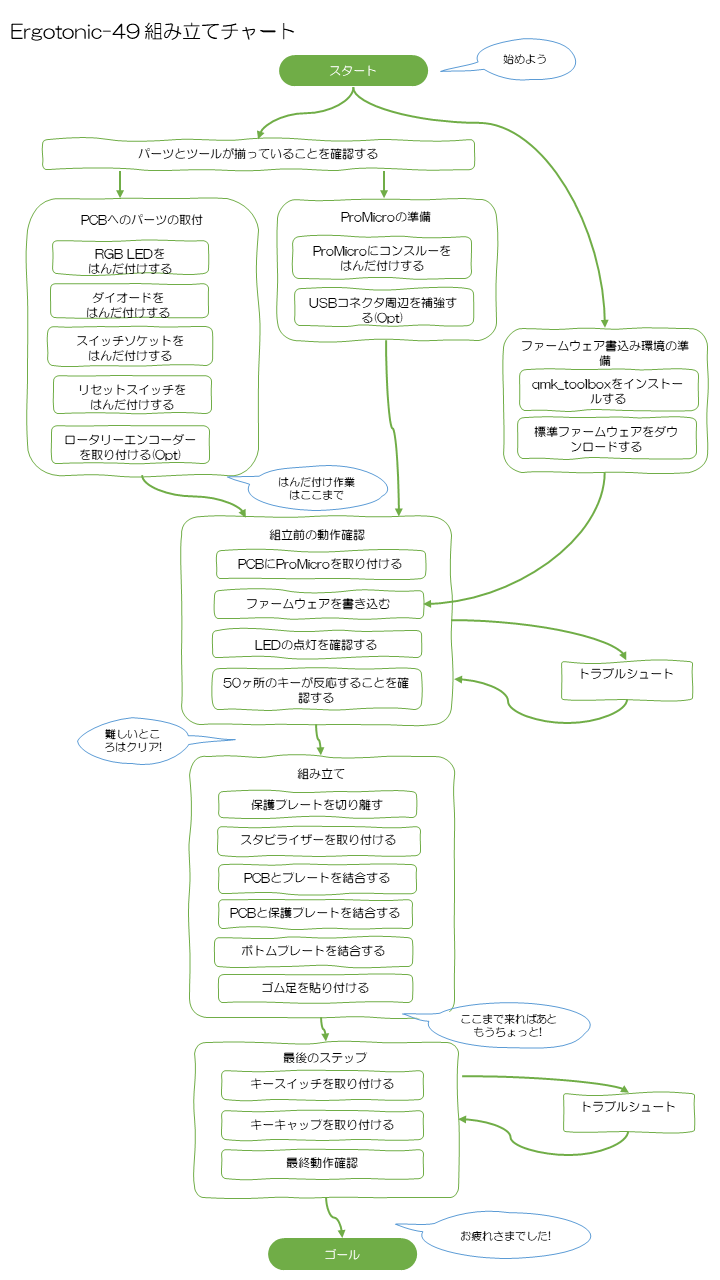
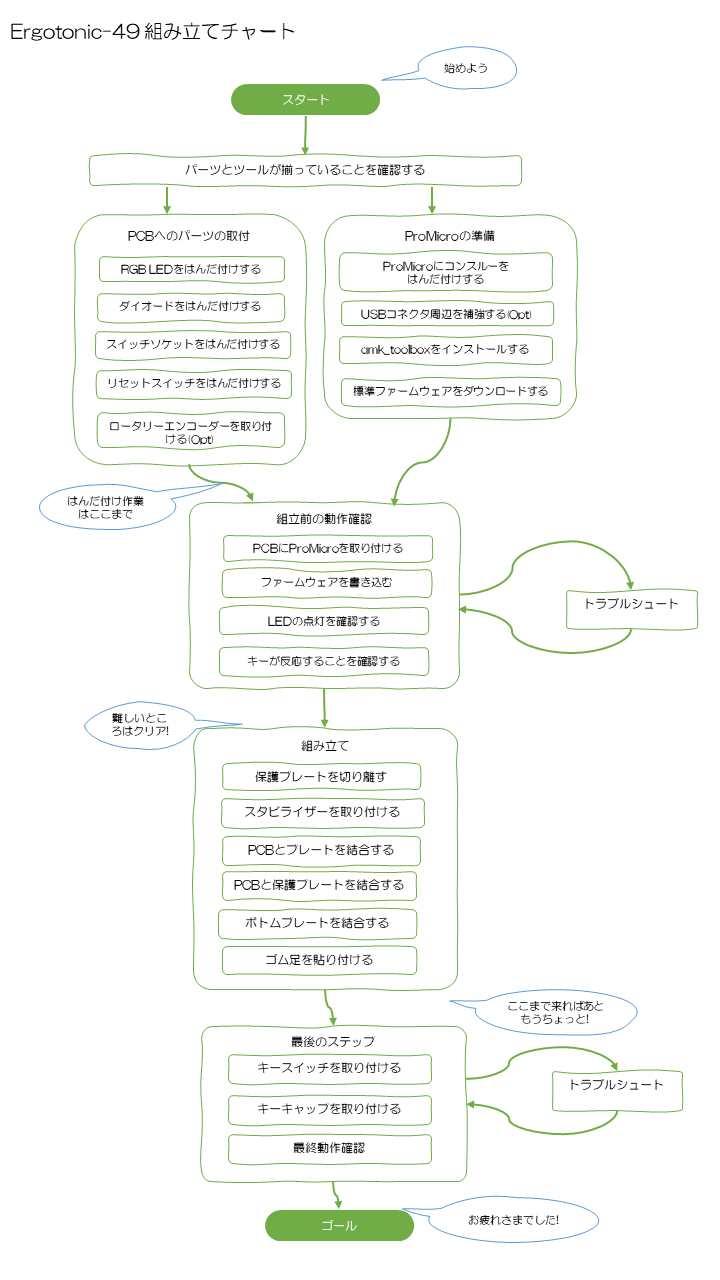
modified: buildguide

diff --git a/docs/06_final_step.md b/docs/06_final_step.md
@@ -1,8 +1,6 @@
-
 [<<Prev: 組み立て](05_assembly.md)  
-----
 
-# 最後のステップ
+# 6. 最後のステップ
 
 ## キースイッチを取り付ける
 
@@ -26,12 +24,16 @@ NOTE
 - すべてのLEDが点灯すること
 
 
-TIPS:
-  - LEDがテストモードで動作しているのを止めたい場合下記のいずれかの方法で行って下さい
-     - 1 REMAPのLED ”Lightning"設定でお好みのモードに変更する
-     - 2 下記のキーの組み合わせでOFF またはモードを変更する
 
-## 問題がなければこれで作業は完了です!
+
+ ## 問題がなければこれで作業は完了です!
+
+
+TIPS:
+  - LEDがテストモードで動作しているのを止めたい場合は、[REMAP](https://remap-keys.app/configure) の ”Lightning"設定でお好みのモードに変更してください。
+  - キー操作でもLEDをコントロールできます。 [標準キーマップのチートシート](img/keymap_cheatsheet_ergotonic_49.pdf)を参照して下さい
 
 ----
  [>>Next: トラブルシュート](07_troubleshoot.md)
+
+[Index](index.md)

diff --git a/docs/index.md b/docs/index.md
@@ -1,9 +1,12 @@
 # Ergotonic-49 組み立て説明書
 
 Ergotonic-49のビルドガイドです。
+
+キーボードの組み立てを始める前に全体工程をよく理解してから取りかることをおすすめします。
+
 ## TOC
 
-1. [事前の準備](01_preparation.md)  
+1. [準備](01_preparation.md)  
 2. [ProMicroの準備](02_promicro.md)
 3. [PCBへのパーツ取り付け](03_soldering_pcb.md)
 4. [組立前の動作確認](04_operation_check.md)
@@ -14,5 +17,5 @@ Ergotonic-49のビルドガイドです。
 
 ## 組み立て手順 (全体チャート)
 
-  [<img src="img/flow_diagram.png" alt="img" title="img/flow_diagram.png" height=600>](img/flow_diagram.png)
+  [<img src="img/flow_diagram.png" alt="img" title="img/flow_diagram.png" width=600>](img/flow_diagram.png)
 

diff --git a/docs/08_reference.md b/docs/08_reference.md
@@ -1,7 +1,6 @@
 [<<Prev: トラブルシュート](07_troubleshoot.md)  
-----
 
-# 参考情報
+# 8. 参考情報
 
 ## パーツショップ(日本)
 
@@ -21,4 +20,5 @@
 - [表面実装部品（SMD）のはんだ付け](https://www.kogadenshi.co.jp/%E5%8D%8A%E7%94%B0%E4%BB%98%E3%81%91%E3%83%86%E3%82%AF%E3%83%8B%E3%83%83%E3%82%AF/%E8%A1%A8%E9%9D%A2%E5%AE%9F%E8%A3%85%E9%83%A8%E5%93%81-smd-%E3%81%AE%E5%8D%8A%E7%94%B0%E4%BB%98%E3%81%91/) 株式会社古賀電子
 
 ----
- [>>Next: Index](index.md)
+ [Index](index.md)
+

diff --git a/docs/05_assembly.md b/docs/05_assembly.md
@@ -2,7 +2,7 @@
 [<<Prev: 組立前の動作確認](04_operation_check.md)  
 ----
 
-# 組み立て
+# 5. 組み立て
 
 ## 保護プレートの切り離し
 
@@ -45,8 +45,10 @@ NOTE:
   
   <img src="img/bottom_screw.jpg" alt="img" title="img/bottom_screw.jpg" width=500>
 
-## ゴム足を取り付けます
+## ゴム足を取り付ける
 
 - 裏側からゴム足を4箇所に取り付けます
 ----
  [>>Next: 最後のステップ](06_final_step.md)
+
+[Index](index.md)

diff --git a/docs/01_preparation.md b/docs/01_preparation.md
@@ -1,8 +1,6 @@
+[<<Prev: Index](index.md) 
 
- [<<Prev: Index](index.md) 
-----
-
-# 準備
+# 1. 準備
 
 組み立てを始める前に、パーツおよびツールが揃っていることを確認します。
 
@@ -55,4 +53,6 @@
  - エポキシ系接着剤(必要に応じて)
 
 ----
- [>>Next: ProMicroの準備](02_promicro.md)
+[>>Next: ProMicroの準備](02_promicro.md)   
+
+[Index](index.md)

diff --git a/docs/04_operation_check.md b/docs/04_operation_check.md
@@ -1,8 +1,6 @@
-
 [<<Prev: PCBへのパーツ取り付け](03_soldering_pcb.md)  
-----
 
-# 組立前の動作確認
+# 4. 組立前の動作確認
 
 ## ProMicroを取り付ける
 
@@ -47,3 +45,5 @@ Chromeブラウザで[REMAPサイト](https://remap-keys.app/configure)を開き
 
 ----
  [>>Next: 組み立て](05_assembly.md)
+
+[Index](index.md)

diff --git a/docs/03_soldering_pcb.md b/docs/03_soldering_pcb.md
@@ -1,6 +1,6 @@
 [<<Prev: ProMicroの準備](02_promicro.md)  
 
-# PCBへのパーツ取り付け
+# 3. PCBへのパーツ取り付け
 
 ## RGB LEDをはんだ付けする
 
@@ -69,3 +69,5 @@ TIPS:
 
 ----
  [>>Next: 組立前の動作確認](04_operation_check.md)
+
+[Index](index.md)

diff --git a/docs/02_promicro.md b/docs/02_promicro.md
@@ -1,7 +1,6 @@
 [<<Prev: 事前の準備](01_preparation.md)  
-----
 
-# ProMicroの準備
+# 2. ProMicroの準備
 
 
 ## QMK ToolboxをPCへインストールする
@@ -49,4 +48,4 @@ TIPS:
 ----
  [>>Next: PCBへのパーツ取り付け](03_soldering_pcb.md)
 
- 
+ [Index](index.md)

diff --git a/docs/07_troubleshoot.md b/docs/07_troubleshoot.md
@@ -1,7 +1,6 @@
 [<<Prev: 最後のステップ](06_final_step.md)  
-----
 
-# トラブルシュート
+# 7. トラブルシュート
 
 ## LEDが点灯しない
 
@@ -40,3 +39,5 @@
 
 ----
  [>>Next: 参考情報](08_reference.md)
+
+[Index](index.md)

diff --git a/index.md b/index.md
@@ -26,7 +26,7 @@
 
 ## ビルドガイド
 
- -  [Erogotonic 49 ビルドガイド](docs/index.md)
+ -  [Erogotonic 49 ビルドガイド](https://hanachi-ap.github.io/ergotonic49_docs/docs/)
 
 ## ファームウェア
 
